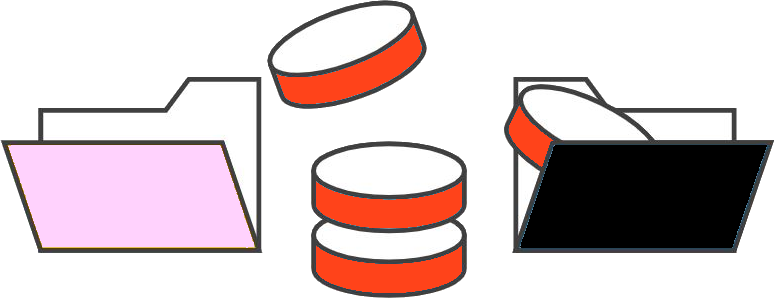
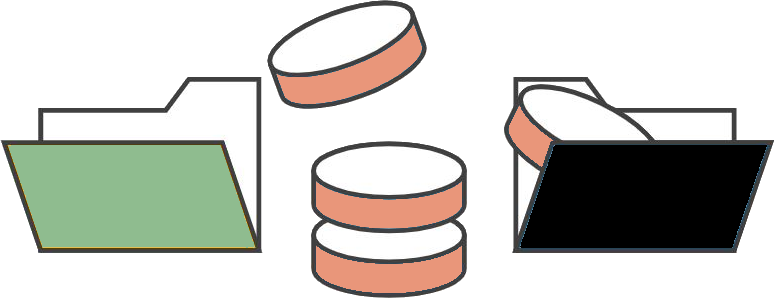
new colors, bc

diff --git a/src/css/commands.css b/src/css/commands.css
@@ -63,7 +63,7 @@
     height: 40%;
     position: absolute; 
     transform: rotate(-20deg);
-    background-color: rgba(0, 0, 0, 0.555);
+    background-color: rgba(47, 79, 79, 0.521);
     margin-left: 130px;
     margin-top: 20px;
     z-index: -1;
@@ -74,7 +74,7 @@
     position: absolute;
     width: 100px;
     height: 100px;
-    background-color: rgba(177, 22, 22, 0.555);
+    background-color: rgba(143, 188, 143, 0.637);
     margin-left: 200px;
     margin-right: 200px;
     margin-top: 10px;
@@ -98,7 +98,7 @@
     position: absolute;
     width: 200px;
     height: 150px;
-    background-color:rgba(177, 22, 22, 0.555);
+    background-color:rgba(233, 150, 122, 0.623);
     margin-right: 40px;
     margin-top: 150px;
     z-index: -1;

diff --git a/src/css/conflicts.css b/src/css/conflicts.css
@@ -37,7 +37,7 @@
     height: 35%; */
   position: absolute;
   transform: rotate(-20deg);
-  background-color: rgba(0, 0, 0, 0.555);
+  background-color: rgba(233, 150, 122, 0.623);
   margin-left: 130px;
   margin-top: -20px;
   z-index: -1;
@@ -48,7 +48,7 @@
   position: absolute;
   width: 100px;
   height: 100px;
-  background-color: rgba(177, 22, 22, 0.555);
+  background-color: rgba(47, 79, 79, 0.582);
   margin-left: 200px;
   margin-right: 200px;
   margin-top: 10px;
@@ -74,7 +74,7 @@
   position: absolute;
   width: 200px;
   height: 150px;
-  background-color: rgba(177, 22, 22, 0.555);
+  background-color: rgba(47, 79, 79, 0.582);
   margin-right: 40px;
   margin-top: 150px;
   z-index: -1;

diff --git a/src/css/start.css b/src/css/start.css
@@ -58,7 +58,7 @@
 .square2 {
   height: 250px;
   width: 240px;
-  background-color: rgba(109, 109, 109, 0.582);
+  background-color: rgba(47, 79, 79, 0.671);
   position: absolute;
   right: 14%;
   top: 18%;
@@ -67,7 +67,7 @@
 .square3 {
   height: 180px;
   width: 180px;
-  background-color: rgba(109, 109, 109, 0.575);
+  background-color: rgba(233, 150, 122, 0.63);
   position: absolute;
   right: 23%;
   top: 17%;

diff --git a/src/components/start.js b/src/components/start.js
@@ -2,7 +2,7 @@ import React, { Component } from "react";
 import { Link } from "react-router-dom";
 import { ReactComponent as Logo } from "../images/dots.svg";
 import "../css/start.css";
-import gitpic1 from "../images/gitpic2.png";
+import gitpic1 from "../images/gitpic1.1.png";
 
 export class start extends Component {
   render() {

diff --git a/src/App.css b/src/App.css
@@ -1,6 +1,6 @@
 .App {
   /* background-color: #fff; */
-  background-image: url("../src/images/path1.5.svg");
+  background-image: url("../src/images/path1.7.svg");
   /* background-repeat: no-repeat; */
   /* background-attachment: local; */
   background-position: center;
